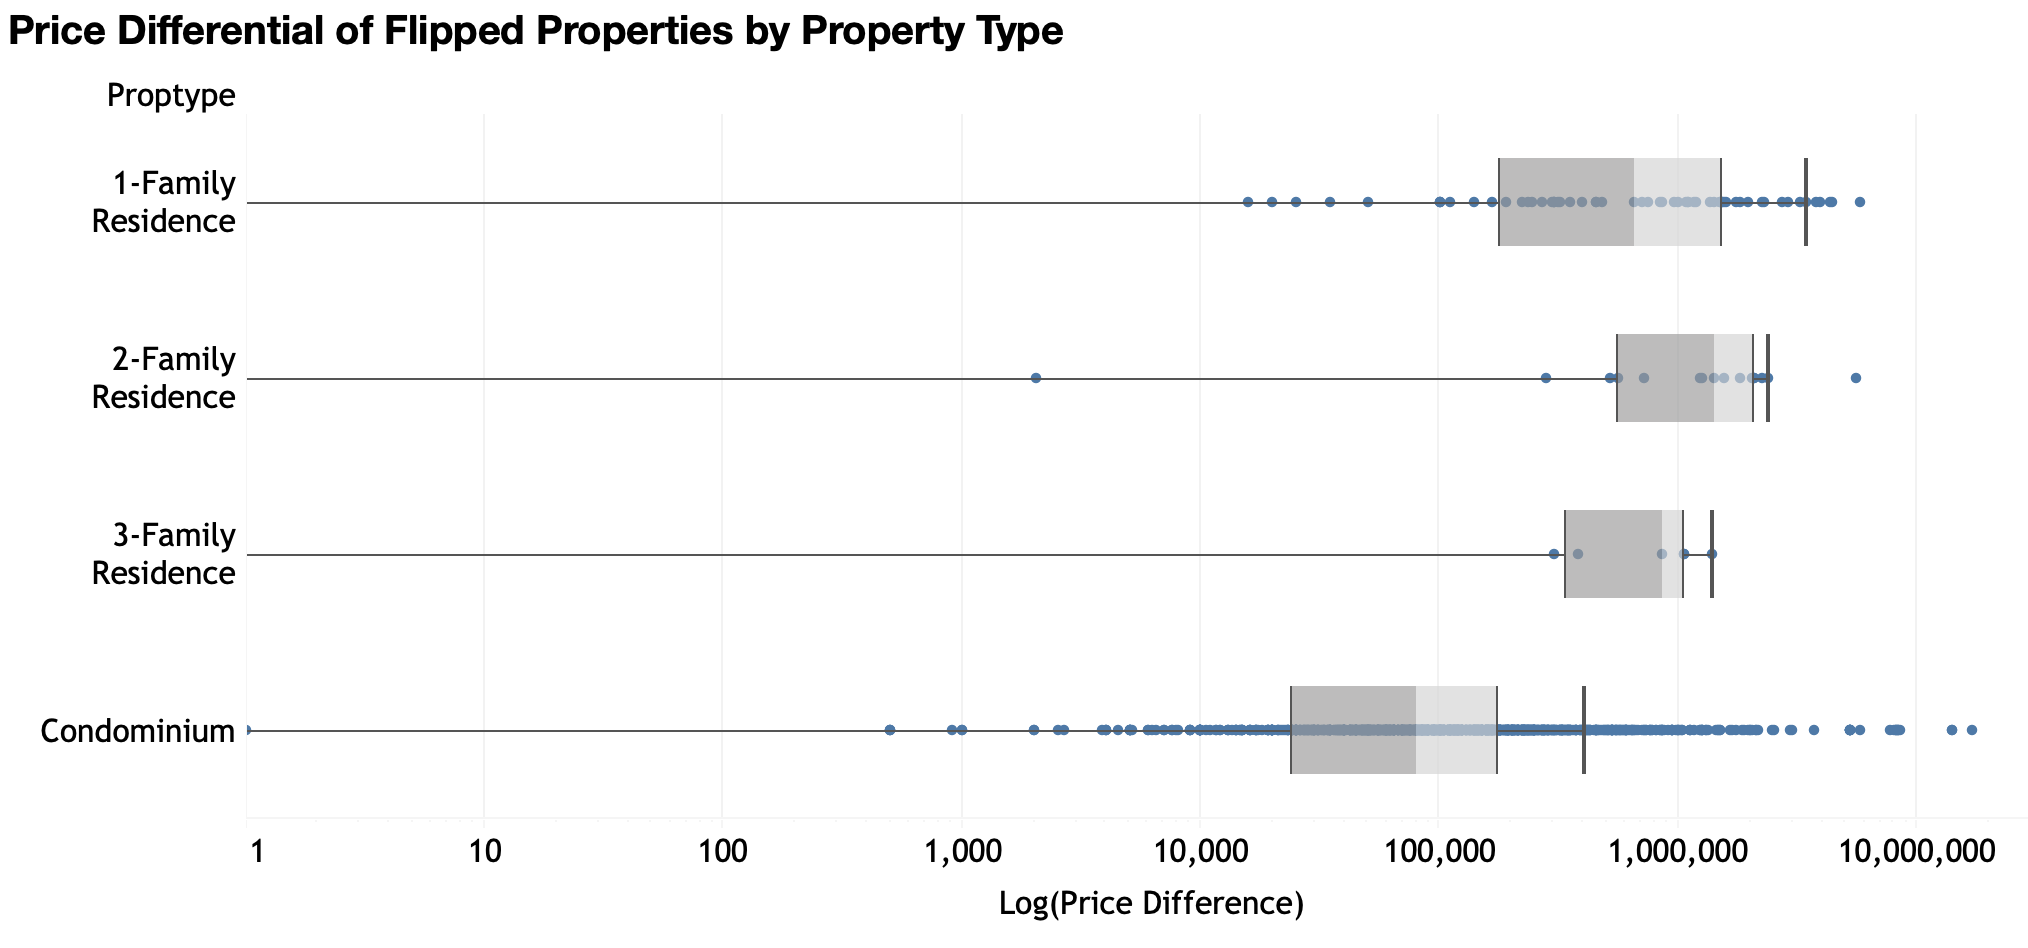
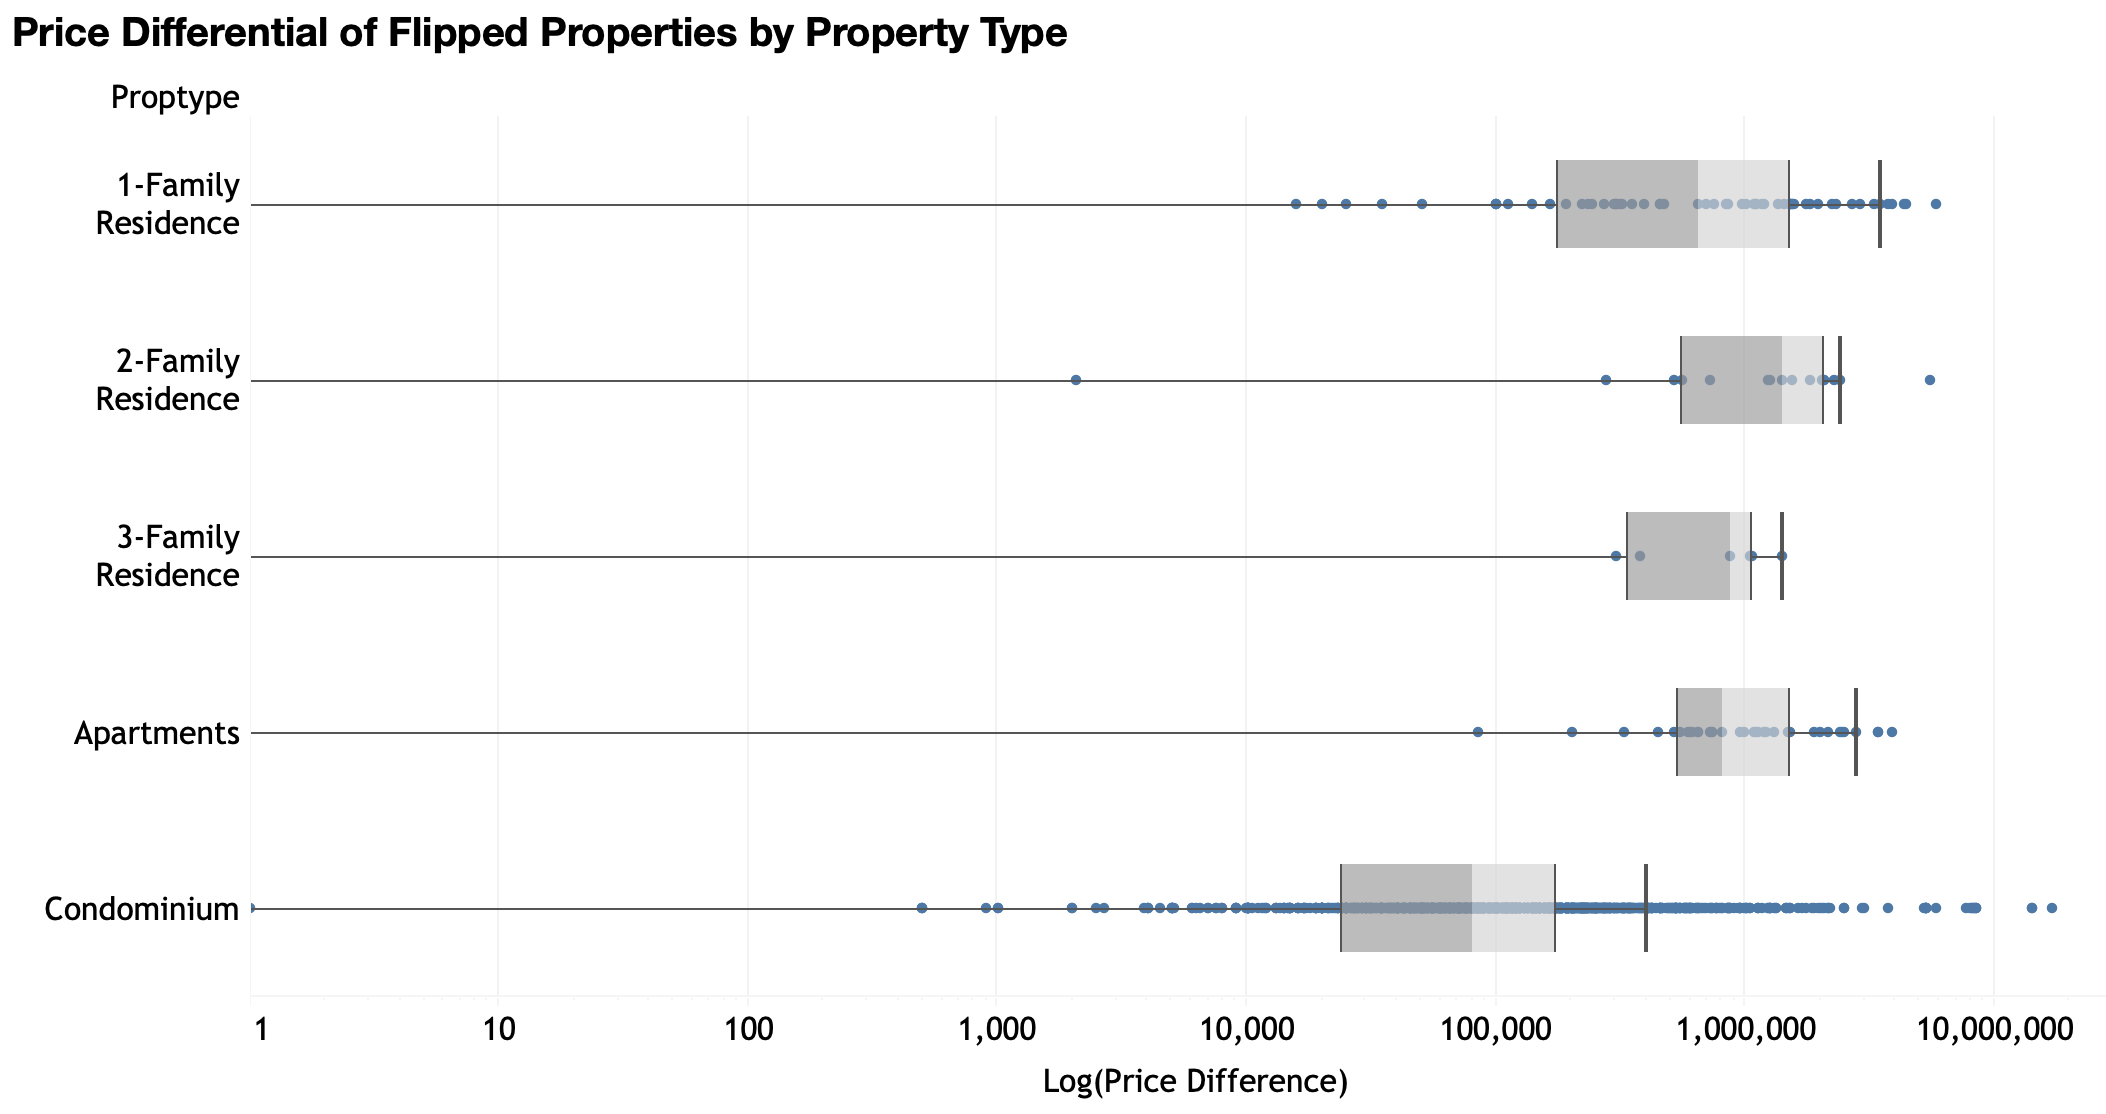
final3

diff --git a/index.html b/index.html
@@ -132,8 +132,8 @@
 					Now let’s shift the focus to the second question. As Boston's market
 					evolves, it is important to understand who is buying property. My analysis
 					categorizes transactions as either investor or non-investor purchases across
-					various property types over time. My goal is to reveal patterns in investment
-					activity and to offer insights into market dynamics and housing availability.
+					various property types over time. My goal is to look into patterns in investment
+					activity and to investigate market dynamics.
 
 					<p>
 					The stacked bar chart illustrates the percentage of real estate transactions
@@ -149,16 +149,15 @@
 			<figure>
 				<img src="CH5.png" alt="" />
 				<figcaption>
-				Next, I want to zoom in on the geographic distribution of investor transactions
-				to examine the changing landscape. The maps juxtapose the investor activity for
-				the periods 2003-2007 and 2018-2022, with the dots being sized by median real
-				price. This offers a visual representation of where investors are directing
-				their capital and reveals the changes in property valuations across Boston.
-				The maps suggest that strategic investments have likely influenced the increase
-				in real estate prices in specific neighborhoods. The higher median prices,
-				showed by the growing size of the circles, reflect a compound effect of investor
-				activities in evolving urban areas.
-
+					Next, I want to zoom in on the geographic distribution of investor transactions
+					to examine the changing landscape. The maps juxtapose the investor activity for
+					the periods 2003-2007 and 2018-2022, with the dots being sized by median real
+					price. This offers a visual representation of where investors are directing
+					their capital and reveals the changes in property valuations across Boston.
+					The maps suggest that strategic investments have likely influenced the increase
+					in real estate prices in specific neighborhoods. The higher median prices
+					showed by the growing size of the circles reflect the effect of investor
+					activities in evolving urban areas.
 				</figcaption>
 			</figure>
 
@@ -172,12 +171,12 @@
 					Journal of Real Estate Finance and Economics). Luxury listings not only
 					reflect on the city's growth but also the shifts in high-end market
 					demand. By exploring the change in the median prices of luxury listings,
-					we can identify the trends in investor engagement. The rising yellow bar
+					we can pinpoint the trends in investor engagement. The rising yellow bar
 					(i.e. the percent share of luxury transactions) reveals that luxury
-					transactions are taking up an increasing share of the market over the
+					transactions are claiming an increasing share of the market over the
 					years, with the median real price of these luxury properties also climbing.
 					As the upscale market expands, I am curious about the broader
-					implications on housing diversity and affordability.
+					implications on housing affordability.
 				</figcaption>
 			</figure>
 
@@ -185,19 +184,17 @@
 				<img src="CH7.png" alt="" />
 				<figcaption>
 					Building upon the previous chart, I would now like to focus on the median
-					real prices of luxury properties segmented by type. The chart differentiates
-					between single-family residences, multi-family residences, and condominiums.
-					This will allow me to understand which categories are most sought after by
-					upscale buyers. The median real price trajectories for 1-family and 2-family
+					real prices of luxury properties by property type.
+					This will allow me to understand which categories are most seeked by
+					upscale buyers. The median real price for apartments, 1-family, and 2-family
 					residences exhibit volatility over time. This may indicate changing economic
 					conditions or consumer preferences. The 3-family residences show a generally
-					upward trend, but with less volatility compared to 1-family and 2-family
-					homes. This would imply that these properties are less sensitive to market
-					fluctuations due to, for instance, a smaller market size. Lastly,
+					upward trend, but with less volatility. This would imply that these properties
+					are less sensitive to market fluctuations. Lastly,
 					condominiums display a different trend, with their median real prices
-					increasing more consistently over time. This growth could be reflective
-					of the increasing desirability of condominiums in urban settings. These
-					differences among property types highlight  the varied preferences of
+					increasing more consistently over time. This growth could indicate
+					the increasing desirability of condominiums. These
+					differences among property types highlight the varied preferences of
 					luxury homebuyers.
 				</figcaption>
 			</figure>
@@ -205,17 +202,17 @@
 			<figure>
 				<img src="CH8.png" alt="" />
 				<figcaption>
-					Translating this onto a map, I am comparing the percent difference in
-					median real prices for luxury listings over a ten-year span (2012 vs 2022).
-					The map helps us understand the specific areas that have become increasingly
-					sought after. The red areas mark zip codes experiencing a surge in median real
-					prices, possibly driven by escalating demand and urban development. In
-					contrast, green shaded areas suggest locations where luxury property values
+					Translating this onto a map, I am now investigating the percent difference in
+					median real prices for luxury listings over a ten year span (2012 vs 2022).
+					The map helps me understand the specific areas that have become increasingly
+					sought after. The red areas indicate zip codes experiencing a surge in median real
+					prices, possibly driven by rising demand and urban development. In
+					contrast, green shaded areas highlight locations where luxury property values
 					have declined. We can see above that most of the zip codes are shaded
 					in red, suggesting that a significant portion of Boston's neighborhoods
 					have experienced a growth in luxury property values. Such an increase in
-					luxury property prices raises questions about housing accessibility as
-					neighborhoods cater more to upscale living.
+					luxury property prices raises questions about housing afforability as
+					neighborhoods shift toward more upscale living.
 				</figcaption>
 			</figure>
 
@@ -224,9 +221,9 @@
 				<figcaption>
 					Lastly, I will dive deeper into the third question I outlined above. In assessing
 					the impact of property flipping on Boston's housing market, I examine several data
-					points to understand trends, profitability, and geographic concentration of flipping
+					points to understand the trends, profitability, and geographic concentration of flipping
 					activities. I begin my analysis by comparing median real prices of flipped versus
-					non-flipped properties over time. This analysis aims to identify whether properties
+					non-flipped properties over time. I am hoping to understand whether properties
 					that have been flipped result in higher prices. The convergence observed in the
 					graph suggests that the flipping market has experienced fluctuations, with flipped
 					properties sometimes underperforming non-flipped ones. This may reflect market
@@ -242,7 +239,8 @@
 					flip horizon and its influence on the market presence of flipped properties.
 					The data shows an increasing preference towards long/medium-term flips.
 					This could indicate that investors are favoring more significant renovations
-					or developments, which require more extended periods. The shift away from
+					or developments, which require more extended periods and likely result
+					in higher profits for the investor. The shift away from
 					short-term flips could also be a response to the market situation, regulatory
 					changes, or investors taking a more cautious investment approach.
 				</figcaption>
@@ -253,13 +251,14 @@
 				<figcaption>
 					Furthermore, I analyze the financial outcomes of flipping by property
 					type. My goal is to understand which types yield higher returns and how
-					these returns vary. The box plot presents a clear differentiation in
-					flipping success across property types, with some showing higher and
-					more consistent returns. Single-family residences appear to have a wider
-					range of profit outcomes, which could indicate both higher risks and
-					potentially higher rewards. In contrast, condominiums show a more
-					concentrated range of outcomes, suggesting a more predictable return.
-
+					these returns vary. From the chart, we can observe that single-family
+					residences have a large spread of returns, which suggests that there
+					are instances of significant losses and substantial gains. The 2-family
+					and 3-family residences, while also showing variability, do not have
+					the extremes seen with single-family homes, suggesting a more moderate
+					level of risk and return. Lastly, looking at condominiums, we can imply
+					that flipping these properties tends to result in lower gains but more
+					consistent and predictable outcomes.
 				</figcaption>
 			</figure>
 
@@ -282,21 +281,19 @@
 		<section>
 			<h2>Summary</h2>
 
-			<p>High-rise development, investor activity, and property flipping are reshaping
-				the urban housing market. Corporations have progressively taken ownership
-				of high-rise buildings, with a marked increase in certain ZIP codes,
-				suggesting a strategic shift towards assets that promise substantial
-				returns. This transformation in property ownership profiles could impact
+			<p>High-rise development, investor activity, and property flipping are influencing
+				the urban housing market. Corporations have increasingly taken ownership
+				of high-rise buildings (with a siginificant increase in certain ZIP codes),
+				suggesting a shift towards assets that promise substantial
+				returns. This shift in property ownership could impact
 				the socioeconomic makeup of communities and raise critical questions
-				about housing affordability. Investment patterns have similarly evolved,
+				about housing affordability. Investment patterns have similarly changed over time,
 				revealing a decline in properties acquired by non-investors. The luxury
 				real estate segment has shown a remarkable increase in both the share of
-				transactions and median real prices, reflecting the city’s shift toward
+				transactions and median real prices, reflecting a shift toward
 				wealthier demographic. The practice of property flipping has seen a trend
-				toward longer-term investments. The financial success of flips varies by
-				property type, and the concentration of flipping activity across ZIP
-				codes suggests nuanced, localized impacts on the housing market. As we
-				look towards the future, these trends highlight the necessity for urban
+				toward long/medium-term investments. Looking forward, these trends highlight
+				the necessity for urban
 				planning and policy-making that ensures that growth and development in
 				Boston remain sustainable and equitable for all.
 			</p>
